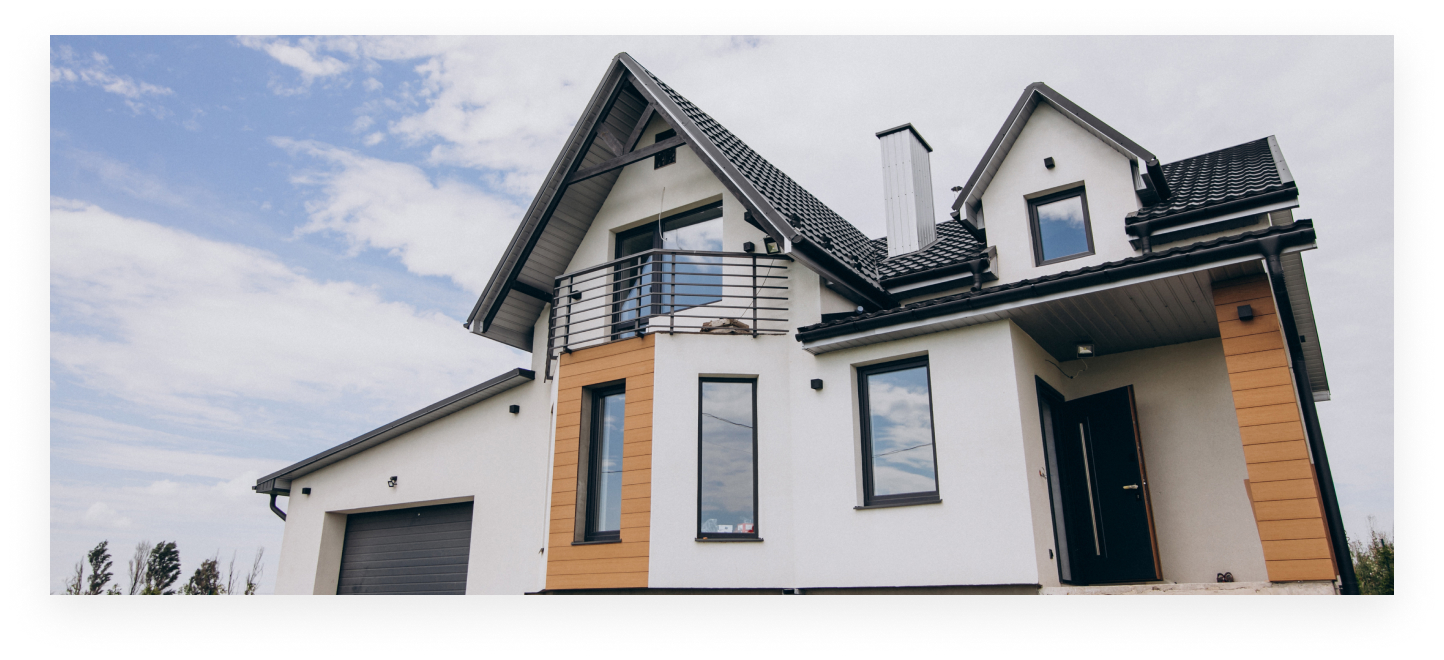
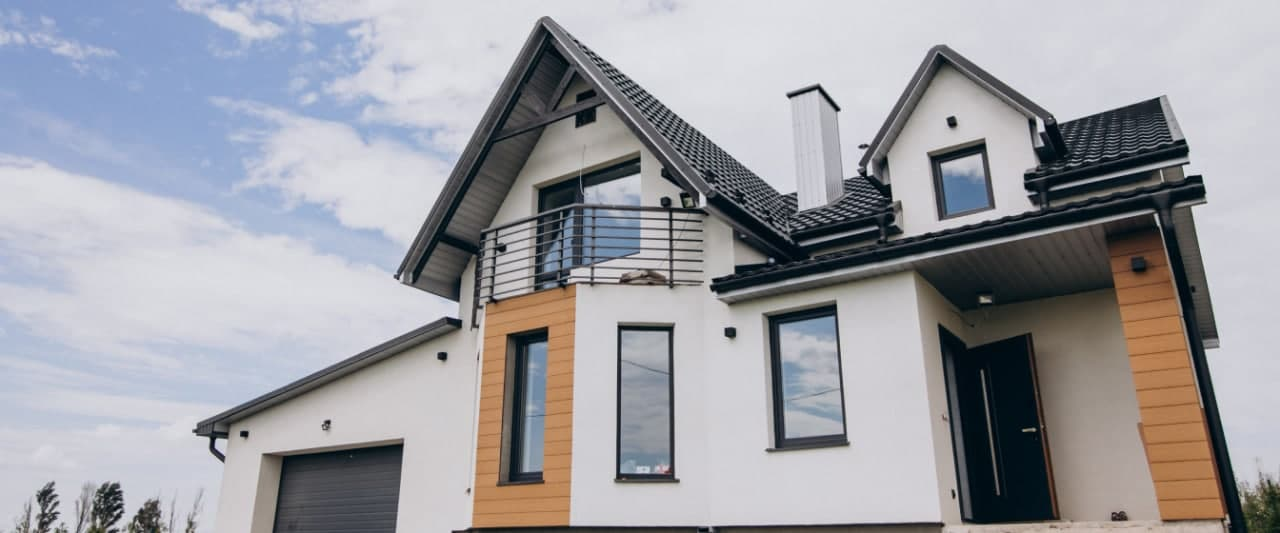
Блок "Статья" c футером

diff --git a/src/article.html b/src/article.html
@@ -60,7 +60,7 @@
             </ul>
             <h2 class="title article__title">Статья на тему: Стройка домов и облицовка фасада</h2>
             <div class="article__img">
-                <img src="assets/images/content/aerated-concrete--option.jpg" alt="Стройка домов и облицовка фасада">
+                <img src="assets/images/content/article.jpg" alt="Стройка домов и облицовка фасада">
             </div>
             <div class="article__info">
                 <h3 class="title title--md">Политика в отношении обработки персональных данных</h3>
@@ -196,25 +196,52 @@
                     <div class="address__text text-bold">+7 (495) 929-70-06</div>
                 </div>
 
-                <div class="contacts">
-<!--                    <a href="tel:+7 (495) 921-30-01" class="contact contact-phone">
-                        <span class="contact-ic contact-phone-ic"></span>
-                        <span>+7 (495) 921-30-01</span>
-                    </a>-->
-                    <a href="tel:+7 (495) 921-30-01" class="contact contact-phone">
-                        <span class="contact-phone-btn cbk-phone">
-                                    <div class="contact-phone-ic"></div>
-                                </span>
-                        <span>+7 (495) 929-70-06</span>
-                    </a>
-                    <a href="mailto:info@stroyhome.pro" class="contact contact-email">
-                        <span class="contact-ic contact-email-ic"></span>
-                        <span>info@stroyhome.pro</span>
-                    </a>
+                <div class="schedules br-btm">
+                    <h5>Режим работы:</h5>
+                    <div class="schedule">
+                        <div class="schedule-item">
+                            <span>Понедельник – Пятница</span>
+                            <span>9:00 – 19:00</span>
+                        </div>
+                        <div class="schedule-item">
+                            <span>Суббота – Воскресенье</span>
+                            <span>Выходной</span>
+                        </div>
+                    </div>
                 </div>
             </div>
             <div class="footer-right">
+                <a href="mailto:info@stroyhome.pro" class="contact">
+                    <span>info@stroyhome.pro</span>
+                </a>
                 <a href="#" class="footer-link">ФЗ о персональных данных</a>
+                <div class="callback-wrap">
+                    <ul class="callback callback--white">
+                        <li class="callback__item whatsapp-btn">
+                            <a href="#" class="btn callback__btn ">
+                                <svg class="svg-wrap" viewBox="0 0 32 32" xmlns:xlink="http://www.w3.org/1999/xlink">
+                                    <use class="svg-sym" xlink:href="#wa-ic" x="0" y="0"></use>
+                                </svg>
+                            </a>
+                        </li>
+                        <li class="callback__item telegram-btn">
+                            <a href="#" class="btn callback__btn ">
+                                <svg class="svg-wrap" width="30" height="26" viewBox="0 0 30 26" fill="none" xmlns="http://www.w3.org/2000/svg">
+                                    <use class="svg-sym" xlink:href="#telegram-ic" x="0" y="0"></use>
+                                </svg>
+                            </a>
+                        </li>
+                        <li class="callback__item inst-btn">
+                            <a href="#" class="btn callback__btn">
+                                <svg class="svg-wrap" viewBox="0 0 33 33" xmlns:xlink="http://www.w3.org/1999/xlink">
+                                    <use class="svg-sym" xlink:href="#inst-ic" x="0" y="0"></use>
+                                </svg>
+                            </a>
+                        </li>
+                    </ul>
+                    <span>Социальные сети</span>
+                </div>
+
                 <div class="develop-name">© Разработано в <span>SEQUOIA</span></div>
             </div>
         </div>
@@ -347,6 +374,11 @@
         <path d="M19.5685 13.364C19.5567 13.8833 20.3252 13.9081 20.3317 13.3823C20.3957 10.4219 18.5704 7.98336 15.1402 7.72633C14.6379 7.6898 14.5857 8.47915 15.0868 8.51568C18.0615 8.7414 19.6285 10.7716 19.5685 13.364Z" fill="#1A1821"/>
         <path d="M18.7465 16.7315C18.102 16.3583 17.4457 16.5906 17.1743 16.9572L16.6068 17.6918C16.3184 18.0649 15.7796 18.0153 15.7796 18.0153C11.8472 16.9755 10.7956 12.8604 10.7956 12.8604C10.7956 12.8604 10.7473 12.3032 11.1074 12.0045L11.8172 11.4173C12.172 11.1355 12.3965 10.4571 12.035 9.79035C11.0695 8.04594 10.4211 7.44446 10.091 6.98259C9.74395 6.54811 9.22206 6.45026 8.67929 6.74382H8.66755C7.53897 7.40401 6.30339 8.63959 6.69872 9.91169C7.37327 11.2529 8.61275 15.5285 12.5635 18.759C14.4201 20.2869 17.3583 21.8525 18.6056 22.2139L18.6174 22.2322C19.8464 22.6419 21.0415 21.358 21.6796 20.1955V20.1864C21.9627 19.6241 21.8687 19.0917 21.4551 18.7434C20.7219 18.0284 19.6155 17.239 18.7465 16.7315Z" fill="#1A1821"/>
         <path d="M15.6778 10.6383C16.9316 10.7114 17.5396 11.3664 17.6048 12.7115C17.6283 13.2373 18.3916 13.2008 18.3681 12.675C18.2846 10.9189 17.3687 9.94031 15.7195 9.84898C15.2172 9.81897 15.1702 10.6083 15.6778 10.6383Z" fill="#1A1821"/>
+    </symbol>
+    <symbol class="" id="inst-ic">
+        <path d="M23.1685 0H9.83027C4.4095 0 -0.000610352 4.41011 -0.000610352 9.83088V23.1691C-0.000610352 28.5899 4.4095 33 9.83027 33H23.1685C28.5893 33 32.9994 28.5899 32.9994 23.1691V9.83088C32.9993 4.41011 28.5892 0 23.1685 0ZM29.6796 23.1691C29.6796 26.7651 26.7645 29.6802 23.1685 29.6802H9.83027C6.23433 29.6802 3.31919 26.7651 3.31919 23.1691V9.83088C3.31919 6.23488 6.23433 3.3198 9.83027 3.3198H23.1685C26.7645 3.3198 29.6796 6.23488 29.6796 9.83088V23.1691Z" />
+        <path d="M16.4993 7.96509C11.7931 7.96509 7.96436 11.7939 7.96436 16.5C7.96436 21.2061 11.7931 25.035 16.4993 25.035C21.2055 25.035 25.0343 21.2062 25.0343 16.5C25.0343 11.7938 21.2055 7.96509 16.4993 7.96509ZM16.4993 21.7152C13.619 21.7152 11.2842 19.3803 11.2842 16.5001C11.2842 13.6198 13.6191 11.2849 16.4993 11.2849C19.3796 11.2849 21.7145 13.6198 21.7145 16.5001C21.7145 19.3803 19.3796 21.7152 16.4993 21.7152Z" />
+        <path d="M25.0508 10.0742C26.1803 10.0742 27.096 9.15855 27.096 8.02904C27.096 6.89953 26.1803 5.98389 25.0508 5.98389C23.9213 5.98389 23.0057 6.89953 23.0057 8.02904C23.0057 9.15855 23.9213 10.0742 25.0508 10.0742Z" />
     </symbol>
 </svg>
 

diff --git a/src/sass/content/_footer.sass b/src/sass/content/_footer.sass
@@ -12,7 +12,7 @@
     padding: 6.94vh 0 4.63vh //calc(75em/18) 0 calc(50em/18)
     +phone-down
       flex-direction: column
-      padding: 32px 0 35px //calc(30em/12) 0
+      padding: 30px 0 37px //calc(30em/12) 0
 
   &-left
     width: 25.5%
@@ -22,7 +22,7 @@
     +phone-down
       width: 100%
       justify-content: center
-      margin-bottom: 55px //calc(30em/12)
+      margin-bottom: 42px
   &-ctr
     flex-grow: 1
     margin-top: -2.77vh
@@ -30,6 +30,7 @@
     +phone-down
       width: 100%
       justify-content: center
+      padding-bottom: 30px
 
 
   &-right
@@ -59,7 +60,7 @@
     li
       padding: 2.77vh 0 2.6851vh //26px 0 29px
       +phone-down
-        padding: 11px 10px 9px  //calc(10em/16) 0
+        padding: 12px 10px 9px  //calc(10em/16) 0
         font-size: 16px //calc(16em/12)
 
   .address
@@ -71,6 +72,7 @@
       font-size: 14px //calc(14em/12)
       padding-top: 30px //calc(30em/14)
       padding-bottom: 44px //calc(50em/14)
+
 
   .address__text
     display: flex
@@ -173,3 +175,113 @@
 
 
 .footer--exd
+  .footer__in
+    padding: 6.94vh 0 2.1296vh //23px
+    +phone-down
+      padding: 30px 0 14px
+
+  h5
+    +phone-down
+      margin-bottom: 17px
+
+  .address
+    padding-bottom: 2.63vh
+    +phone-down
+      padding-bottom: 26px
+
+  .schedules
+    padding-top: 2.8703vh //31px
+    border-bottom-width: 0
+    +phone-down
+      padding-top: 32px
+      border-bottom-width: 1px
+      padding-bottom: 8px
+
+  .contact
+    border: 1px solid rgba(255, 255, 255, 0.2)
+    border-radius: 5.05vw //100px
+    padding: 1.759259vh 3.33vw //19px 64px
+    font-size: 0.9375vw //18px
+    line-height: 1.22
+    +ipad-down
+      font-size: .9rem
+    +phone-down
+      font-size: 18px
+      border-radius: 100px
+      padding: 19px 65px
+
+
+  .footer-right
+    padding-top: 1.2037vh //13px
+    padding-bottom: 2.7vh //30px
+
+  .callback
+    flex-direction: row
+    justify-content: flex-end
+    margin-bottom: 0.925vh //10px
+
+  .callback__item
+    margin-right: 1.3vw //25px
+    &:last-child
+      margin-right: 0
+
+  .callback-wrap
+    font-size: 1.14583vw //22px
+    line-height: 1.2
+    +ipad-down
+      font-size: 1.1rem
+    +phone-down
+      display: none
+
+  .develop-name
+    font-size: 1.14583vw //22px
+    line-height: 1.2
+    margin-right: 0
+    margin-top: -0.925vh //-10px
+    +ipad-down
+      font-size: 1.1rem
+    +phone-down
+      font-size: 22px
+
+  .footer-link
+    margin-top: -1.66vh //-18px
+    +phone-down
+      margin-bottom: 68px
+      margin-top: 30px
+
+  .footer-ctr
+    +phone-down
+      padding-bottom: 20px
+
+.schedules
+  +phone-down
+    text-align: center
+    font-size: 14px
+    line-height: 1.2
+
+.schedule
+  display: flex
+  +phone-down
+    flex-direction: column
+
+  &-item
+    display: flex
+    flex-direction: column
+    margin-right: 4.947916vw //95px
+    +phone-down
+      margin-right: 0
+      margin-bottom: 20px
+
+
+    &:last-child
+      margin-right: 0
+
+.callback--white
+  .callback__btn
+    width: 1.77vw //34px
+    height: 1.77vw //34px
+    padding: 0
+    border-radius: 0
+    background-color: transparent
+    .svg-sym
+      fill: $fontColorMain

diff --git a/src/index.html b/src/index.html
@@ -1351,6 +1351,11 @@
         <path d="M18.7465 16.7315C18.102 16.3583 17.4457 16.5906 17.1743 16.9572L16.6068 17.6918C16.3184 18.0649 15.7796 18.0153 15.7796 18.0153C11.8472 16.9755 10.7956 12.8604 10.7956 12.8604C10.7956 12.8604 10.7473 12.3032 11.1074 12.0045L11.8172 11.4173C12.172 11.1355 12.3965 10.4571 12.035 9.79035C11.0695 8.04594 10.4211 7.44446 10.091 6.98259C9.74395 6.54811 9.22206 6.45026 8.67929 6.74382H8.66755C7.53897 7.40401 6.30339 8.63959 6.69872 9.91169C7.37327 11.2529 8.61275 15.5285 12.5635 18.759C14.4201 20.2869 17.3583 21.8525 18.6056 22.2139L18.6174 22.2322C19.8464 22.6419 21.0415 21.358 21.6796 20.1955V20.1864C21.9627 19.6241 21.8687 19.0917 21.4551 18.7434C20.7219 18.0284 19.6155 17.239 18.7465 16.7315Z" fill="#1A1821"/>
         <path d="M15.6778 10.6383C16.9316 10.7114 17.5396 11.3664 17.6048 12.7115C17.6283 13.2373 18.3916 13.2008 18.3681 12.675C18.2846 10.9189 17.3687 9.94031 15.7195 9.84898C15.2172 9.81897 15.1702 10.6083 15.6778 10.6383Z" fill="#1A1821"/>
     </symbol>
+    <symbol class="" id="inst-ic">
+        <path d="M23.1685 0H9.83027C4.4095 0 -0.000610352 4.41011 -0.000610352 9.83088V23.1691C-0.000610352 28.5899 4.4095 33 9.83027 33H23.1685C28.5893 33 32.9994 28.5899 32.9994 23.1691V9.83088C32.9993 4.41011 28.5892 0 23.1685 0ZM29.6796 23.1691C29.6796 26.7651 26.7645 29.6802 23.1685 29.6802H9.83027C6.23433 29.6802 3.31919 26.7651 3.31919 23.1691V9.83088C3.31919 6.23488 6.23433 3.3198 9.83027 3.3198H23.1685C26.7645 3.3198 29.6796 6.23488 29.6796 9.83088V23.1691Z" />
+        <path d="M16.4993 7.96509C11.7931 7.96509 7.96436 11.7939 7.96436 16.5C7.96436 21.2061 11.7931 25.035 16.4993 25.035C21.2055 25.035 25.0343 21.2062 25.0343 16.5C25.0343 11.7938 21.2055 7.96509 16.4993 7.96509ZM16.4993 21.7152C13.619 21.7152 11.2842 19.3803 11.2842 16.5001C11.2842 13.6198 13.6191 11.2849 16.4993 11.2849C19.3796 11.2849 21.7145 13.6198 21.7145 16.5001C21.7145 19.3803 19.3796 21.7152 16.4993 21.7152Z" />
+        <path d="M25.0508 10.0742C26.1803 10.0742 27.096 9.15855 27.096 8.02904C27.096 6.89953 26.1803 5.98389 25.0508 5.98389C23.9213 5.98389 23.0057 6.89953 23.0057 8.02904C23.0057 9.15855 23.9213 10.0742 25.0508 10.0742Z" />
+    </symbol>
 </svg>
 
 <script src="../assets/main.min.js"></script>

diff --git a/src/sass/content/_work_stages.sass b/src/sass/content/_work_stages.sass
@@ -251,7 +251,7 @@ $marginLeft: 1.93vw //37px
 .background-wrapper
   position: relative
   background:
-    color: rgba(32, 31, 36, 1)
+    //color: rgba(32, 31, 36, 1)
     image: url("../images/content/etaps_bg.jpg")
     repeat: no-repeat
     size: cover
@@ -265,7 +265,7 @@ $marginLeft: 1.93vw //37px
     left: 0
     width: 100%
     height: 100%
-    background-color: rgba(32, 31, 36, 0.975)
+    background-color: rgba(7, 7, 9, 0.9)
 
   &.laurel-right-ic::after
     top: 0
